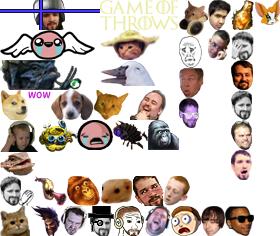
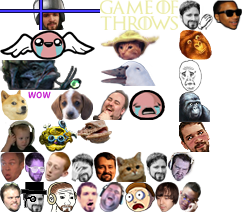
remove emotes by request and a few others by usage, LET THE RUSTLING COMMENCE

diff --git a/static/chat/css/style.min.css b/static/chat/css/style.min.css
@@ -1,1 +1,1 @@
-.nano{position:relative;width:100%;height:100%;overflow:hidden}.nano .content{position:absolute;overflow:scroll;overflow-x:hidden;top:0;right:0;bottom:0;left:0}.nano .content:focus{outline:0}.nano .content::-webkit-scrollbar{visibility:hidden}.has-scrollbar .content::-webkit-scrollbar{visibility:visible}.nano:hover>.pane,.pane.active,.pane.flashed{visibility:visible\9;opacity:.99}.nano>.pane{background:rgba(0,0,0,0.3);position:absolute;width:8px;right:5px;top:0;bottom:0;visibility:hidden\9;opacity:.01;-webkit-transition:.2s;-moz-transition:.2s;-o-transition:.2s;transition:.2s}.nano>.pane>.slider{background:#999;position:relative;margin:0 1px;-moz-border-radius:3px;-webkit-border-radius:3px;border-radius:3px}.nano>.pane>.slider:hover,.nano>.pane.active>.slider{background:#eee}.serif{font-family:"Trebuchet MS",sans-serif}.chat{position:relative;width:100%;height:100%;min-width:300px}.chat-output-frame{margin-bottom:35px;height:auto;width:100%;position:absolute;overflow:hidden;top:0;bottom:0;left:0;right:0}.chat-output{width:100%;height:100%}.chat-output .chat-lines{-webkit-backface-visibility:hidden;-webkit-perspective:1000}.chat-lines>div{clear:both;word-wrap:break-word;padding:3px 20px 3px 5px}.chat-lines>div .continue{user-select:none;color:#444}.chat-lines>div i.continue{user-select:none;color:#222}.chat-lines a.user{font-weight:bold;cursor:pointer;font-family:"Trebuchet MS",sans-serif}.chat-lines hr{margin:8px 0}.chat-lines .msg.emote{font-style:italic}.chat-input{width:100%;position:absolute;bottom:0}#chat-top-frame{position:absolute;top:0;left:0;right:0}#chat-bottom-frame{position:absolute;bottom:35px;left:0;right:0}.chat-input>div{margin:5px 0 0 0;background:#2e2e2e}.chat-tools-wrap{position:absolute;right:0;bottom:0;margin:0;user-select:none;-moz-user-select:none;-webkit-user-select:none}.chat-input-wrap{margin:0;margin-right:60px}#user-mute-form,#user-ban-form{margin-top:10px;display:none}#user-mute-form #banTimeLength{width:150px}.chat-input-control{padding:3px 0 0 5px;height:28px;margin:1px;border-radius:3px}.chat-input-control .input{background:0;resize:none;margin:0;padding:0;width:100%;border:0;border-radius:0;box-shadow:none;box-sizing:border-box}.chat-input-control .input:focus{box-shadow:none}.chat-tools-wrap>div{height:30px;overflow:hidden}.chat-tools-wrap .iconbtn{cursor:pointer;width:30px;height:28px;line-height:28px;float:left;display:block;text-align:center;color:#555}.chat-tools-wrap .iconbtn:hover{color:white}.chat-tools-wrap .iconbtn.active{color:white}.chat .chat-lines i[class^="icon-"]{width:16px;line-height:16px;height:16px;margin:0;opacity:1;display:inline-block;vertical-align:middle}.chat-input-control input,.chat-lines{font-family:Helvetica,"Trebuchet MS",Verdana,sans-serif;font-size:13px;line-height:1.5em}.chat-lines time{font-size:11px}.chat-lines a.externallink{color:#02c2ff}.chat-lines a.externallink:visited{color:#004d74}.chat-lines a.externallink:hover,.chat-lines a.externallink:focus{color:#08c}.chat-lines a.nsfw-link{border-bottom:1px dashed red}.chat .chat-lines time,.chat .user-msg i{display:none!important}.chat.chat-time .chat-lines time,.chat.chat-icons .user-msg i,.chat-lines i[class*='icon-subscriber']{display:inline-block!important}.chat-theme-dark{background:#080808;border-radius:0}.chat-theme-dark .chat-input-wrap{border:0}.chat-theme-dark .chat-lines time{color:#414141}.chat-theme-dark .chat-lines>div.highlight time,.chat-lines>div.highlight .continue{color:#838383}.chat-theme-dark .chat-lines>.command-msg,.chat-theme-dark .chat-lines>.error-msg,.chat-theme-dark .chat-lines>.status-msg,.chat-theme-dark .chat-lines>.ui-msg,.chat-theme-dark .chat-lines>.own-msg,.chat-theme-dark .chat-lines>.highlight{color:#dedede}.chat-theme-dark .chat-lines>.broadcast-msg .msg{color:#edea12}.chat-theme-dark .chat-lines>.broadcast-msg{background:linear-gradient(to right,rgba(255,255,21,0.1) 0,rgba(255,255,255,0) 90%,rgba(255,255,255,0) 100%)}.chat-theme-dark .chat-lines>.own-msg{background:linear-gradient(to right,rgba(255,255,255,0.05) 0,rgba(255,255,255,0.05) 90%,rgba(255,255,255,0) 100%)}.chat-theme-dark .chat-lines>.highlight{background:linear-gradient(to right,rgba(0,150,255,0.5) 0,rgba(0,150,255,0) 100%)}.chat-theme-dark .chat-lines>.command-msg,.chat-theme-dark .chat-lines>.own-msg,.chat-theme-dark .chat-lines>.highlight .msg,.chat-theme-dark .chat-lines>.broadcast-msg .msg{text-shadow:1px 1px 0 rgba(0,0,0,0.5)}.chat-theme-dark .chat-input-control{background:#090909;border:0}.chat-theme-dark .chat-input-control input{color:#9e9e9e;background:#090909;text-shadow:none;outline:0}.chat-theme-dark input:input-placeholder{color:#222}.chat-theme-dark input::-webkit-input-placeholder{color:#222}.chat-theme-dark input:-moz-placeholder{color:#222}.chat-theme-dark input::-moz-placeholder{color:#222}.chat-theme-dark input:-ms-input-placeholder{color:#222}.chat-theme-dark .nano>.pane{background:rgba(0,0,0,0.3);width:8px;right:5px;top:5px;bottom:0}.chat-theme-dark .nano>.pane>.slider{background:#999}.chat-theme-dark .nano>.pane>.slider:hover,.chat-theme-dark .nano>.pane.active>.slider{background:#eee}.chat.focus-user .chat-lines>.user-msg{opacity:.3}.chat.focus-user .chat-lines>.user-msg.focused,.chat.focus-user .chat-lines>.user-msg.highlight{opacity:1}.chat .alert{margin-bottom:0;padding-top:4px;padding-bottom:4px;font-size:12px}.hint-popup,.user-tools{width:100%;top:-5px;left:0}.hint-popup>div,.user-tools>div,#chat-broadcasts>div{border-radius:4px;margin:5px 20px 5px 5px}.user-tools .user-tools-user{font-family:"Trebuchet MS",sans-serif}#chat-broadcasts .chat-emote{display:none}.hint-popup>div{box-shadow:0 2px 6px rgba(0,0,0,0.9);padding:0}.hint-popup a:hover{cursor:pointer;color:#6aa7f9}.hint-popup .hidehint,.hint-popup .nexthint{top:0;position:relative;float:right;right:-23px;line-height:20px;-webkit-touch-callout:none;-webkit-user-select:none;-khtml-user-select:none;-moz-user-select:none;-ms-user-select:none;user-select:none;color:#CCC}.hint-popup .hidehint{right:-27px}.hint-popup .hidehint:hover,.hint-popup .nexthint:hover{color:#111}.hint-popup .alert{padding-right:35px}.user-tools-wrap{margin-left:-5px}.user-tools-wrap>a{margin:0 5px}.chat-menu,.user-tools,.hint-popup{display:none;opacity:0}.chat-menu.active,.user-tools.active,.hint-popup.active{display:block;opacity:1}.chat-menu,.user-tools,.hint-popup{font-size:12px}.chat-menu{position:absolute;right:20px;bottom:-5px;width:240px}.chat-menu.active{bottom:0}.chat-menu h5,.user-tools h5{text-shadow:-1px -1px 0 rgba(0,0,0,0.25);user-select:none;-moz-user-select:none;-webkit-user-select:none;background:#4f4f4f;background:linear-gradient(to bottom,#4f4f4f 0,#2e2e2e 100%);border-bottom:1px solid #121212;margin:0;line-height:20px;display:block;padding:5px 15px 5px 10px;border-radius:4px 4px 0 0}.chat-menu .toolbar{width:100%;position:absolute;top:-31px;left:0}.chat-menu li,.chat-menu label{font-size:12px}.chat-menu label{font-weight:normal;margin:0 0 5px 0}.chat-menu label:hover{color:white}.chat-menu .list-wrap,.chat-menu .list-wrap .scrollable{max-height:330px;font-size:.9em}.chat-menu .list-wrap,.user-tools>div{box-shadow:0 2px 6px rgba(0,0,0,0.9);border-radius:0 0 4px 4px;background:rgba(25,25,25,0.9);padding:0}.chat-menu .list-wrap{margin-top:auto}.chat-menu ul,.user-tools .tools{padding:0 10px;margin:10px 0}.chat-menu ul>li:first-child h5{margin-top:0}.chat-menu ul li{text-overflow:ellipsis;overflow:hidden}#chat-user-list ul li{line-height:18px}#chat-user-list h6:first-child{margin-top:10px}#chat-user-list h6{font-weight:bold;margin:0 0 5px 5px}#chat-user-list hr{margin:5px 0}#chat-user-list ul{margin:0}#chat-user-list .user{cursor:pointer;font-family:"Trebuchet MS",sans-serif}.user-tools a#unignoreuser,.user-tools.user-ignored a#ignoreuser{display:none}.user-tools.user-ignored a#unignoreuser{display:inline-block}.chat-menu .nano>.pane{width:8px;right:3px;top:3px;bottom:3px}.chat-login-msg{display:inline-block;width:100%;padding:0 0 0 5px;line-height:30px;color:rgba(255,255,255,0.5);text-shadow:-1px -1px 0 rgba(0,0,0,0.25)}.chat-lines .emotecount{color:white;text-shadow:1px 1px 0 rgba(0,0,0,0.9);font-size:10px;line-height:10px;border-radius:10px;padding:3px 6px;margin:0 0 0 5px;background:#191919}.chat-lines .emotecount{text-shadow:none;animation:emotecount 600ms 1;-webkit-animation:emotecount 600ms 1}@keyframes emotecount{from{color:black;background-color:white}to{color:white;background-color:#333}}@-webkit-keyframes emotecount{from{color:black;background-color:white}to{color:white;background-color:#333}}.chat-lines .emotecount.x5>span{font-size:10px}.chat-lines .emotecount.x10>span{font-size:16px}.chat-lines .emotecount.x20>span{font-size:25px;vertical-align:middle}.chat-lines .emotecount.x30>span{font-size:35px;vertical-align:middle}.chat-lines .emotecount.x50>span{font-size:40px;vertical-align:middle}.chat a.user{color:#cacaca}.chat a.user:hover{color:#fafafa}.chat a.subscriber{color:#488ce7}.chat a.subscriber:hover{color:#6aa7f9}.chat a.flair3{color:#0060ff;text-shadow:1px 1px 0 black}.chat a.flair3:hover{color:#6aa7f9}.chat a.flair8{color:#a427d6;text-shadow:1px 1px 0 black}.chat a.flair8:hover{color:#e564f4}.chat a.vip{color:#4db524}.chat a.vip:hover{color:#4db524}.chat a.bot{color:#e79015}.chat a.bot:hover{color:#e79015}.chat a.admin{color:#b91010}.chat a.admin:hover{color:#f00}.chat .greentext{color:#6ca528}.chat-emote{display:inline-block;position:relative;top:10px;margin:0 2px}.chat-emote.chat-emote-OverRustle{animation:rustle 100ms 7;-webkit-animation:rustle 100ms 7}.chat-emote.chat-emote-OverRustle:hover{animation:rustle1 100ms infinite;-webkit-animation:rustle1 100ms infinite}@keyframes rustle{from{left:0}to{left:2px}}@-webkit-keyframes rustle{from{left:0}to{left:2px}}@keyframes rustle1{from{left:0}to{left:2px}}@-webkit-keyframes rustle1{from{left:0}to{left:2px}}.chat-emote.chat-emote-AYYYLMAO,.chat-emote.chat-emote-AngelThump,.chat-emote.chat-emote-Abathur,.chat-emote.chat-emote-GameOfThrows,.chat-emote.chat-emote-KINGSLY,.chat-emote.chat-emote-DuckerZ,.chat-emote.chat-emote-SoDoge,.chat-emote.chat-emote-FrankerZ,.chat-emote.chat-emote-FeedNathan,.chat-emote.chat-emote-Heimerdonger,.chat-emote.chat-emote-ASLAN,.chat-emote.chat-emote-LUL,.chat-emote.chat-emote-DJAslan,.chat-emote.chat-emote-BibleThump,.chat-emote.chat-emote-INFESTINY,.chat-emote.chat-emote-Hhhehhehe,.chat-emote.chat-emote-Klappa,.chat-emote.chat-emote-SURPRISE,.chat-emote.chat-emote-OverRustle,.chat-emote.chat-emote-FerretLOL,.chat-emote.chat-emote-SoSad,.chat-emote.chat-emote-NoTears,.chat-emote.chat-emote-DestiSenpaii,.chat-emote.chat-emote-WhoahDude,.chat-emote.chat-emote-WORTH,.chat-emote.chat-emote-UWOTM8,.chat-emote.chat-emote-TooSpicy,.chat-emote.chat-emote-Sippy,.chat-emote.chat-emote-OhKrappa,.chat-emote.chat-emote-Nappa,.chat-emote.chat-emote-MotherFuckinGame,.chat-emote.chat-emote-Kappa,.chat-emote.chat-emote-Dravewin,.chat-emote.chat-emote-Disgustiny,.chat-emote.chat-emote-DatGeoff,.chat-emote.chat-emote-DappaKappa,.chat-emote.chat-emote-DaFeels,.chat-emote.chat-emote-DURRSTINY,.chat-emote.chat-emote-DESBRO,.chat-emote.chat-emote-DAFUK,.chat-emote.chat-emote-CallChad,.chat-emote.chat-emote-CallCatz,.chat-emote.chat-emote-BasedGod,.chat-emote.chat-emote-FIDGETLOL{background-image:url('../img/emoticons.png');background-repeat:no-repeat}.chat-emote.chat-emote-AYYYLMAO{background-position:0 0;width:100px;height:30px;margin-top:-30px}.chat-emote.chat-emote-AngelThump{background-position:0 -30px;width:95px;height:30px;margin-top:-30px}.chat-emote.chat-emote-Abathur{background-position:0 -60px;width:82px;height:30px;margin-top:-30px}.chat-emote.chat-emote-GameOfThrows{background-position:-100px 0;width:79px;height:30px;margin-top:-30px}.chat-emote.chat-emote-KINGSLY{background-position:-100px -30px;width:60px;height:30px;margin-top:-30px}.chat-emote.chat-emote-DuckerZ{background-position:-100px -60px;width:56px;height:26px;margin-top:-26px}.chat-emote.chat-emote-SoDoge{background-position:0 -90px;width:51px;height:30px;margin-top:-30px}.chat-emote.chat-emote-FrankerZ{background-position:-51px -90px;width:42px;height:30px;margin-top:-30px}.chat-emote.chat-emote-FeedNathan{background-position:0 -120px;width:39px;height:32px;margin-top:-32px}.chat-emote.chat-emote-Heimerdonger{background-position:-39px -120px;width:38px;height:32px;margin-top:-32px}.chat-emote.chat-emote-ASLAN{background-position:-93px -90px;width:37px;height:30px;margin-top:-30px}.chat-emote.chat-emote-LUL{background-position:-130px -90px;width:36px;height:30px;margin-top:-30px}.chat-emote.chat-emote-DJAslan{background-position:-179px 0;width:29px;height:36px;margin-top:-36px}.chat-emote.chat-emote-BibleThump{background-position:-77px -120px;width:36px;height:30px;margin-top:-30px}.chat-emote.chat-emote-INFESTINY{background-position:-113px -120px;width:35px;height:30px;margin-top:-30px}.chat-emote.chat-emote-Hhhehhehe{background-position:0 -152px;width:35px;height:24px;margin-top:-24px}.chat-emote.chat-emote-Klappa{background-position:0 -176px;width:34px;height:30px;margin-top:-30px}.chat-emote.chat-emote-SURPRISE{background-position:-34px -176px;width:33px;height:30px;margin-top:-30px}.chat-emote.chat-emote-OverRustle{background-position:-67px -176px;width:33px;height:30px;margin-top:-30px}.chat-emote.chat-emote-FerretLOL{background-position:-100px -176px;width:33px;height:30px;margin-top:-30px}.chat-emote.chat-emote-SoSad{background-position:-179px -36px;width:23px;height:32px;margin-top:-32px}.chat-emote.chat-emote-NoTears{background-position:-148px -120px;width:31px;height:30px;margin-top:-30px}.chat-emote.chat-emote-DestiSenpaii{background-position:-133px -176px;width:31px;height:30px;margin-top:-30px}.chat-emote.chat-emote-WhoahDude{background-position:-179px -68px;width:25px;height:30px;margin-top:-30px}.chat-emote.chat-emote-WORTH{background-position:-179px -98px;width:20px;height:30px;margin-top:-30px}.chat-emote.chat-emote-UWOTM8{background-position:-164px -176px;width:26px;height:30px;margin-top:-30px}.chat-emote.chat-emote-TooSpicy{background-position:-208px 0;width:23px;height:30px;margin-top:-30px}.chat-emote.chat-emote-Sippy{background-position:-231px 0;width:24px;height:30px;margin-top:-30px}.chat-emote.chat-emote-OhKrappa{background-position:-231px -30px;width:23px;height:30px;margin-top:-30px}.chat-emote.chat-emote-Nappa{background-position:-231px -60px;width:22px;height:30px;margin-top:-30px}.chat-emote.chat-emote-MotherFuckinGame{background-position:0 -206px;width:30px;height:30px;margin-top:-30px}.chat-emote.chat-emote-Kappa{background-position:-231px -90px;width:21px;height:30px;margin-top:-30px}.chat-emote.chat-emote-Dravewin{background-position:-30px -206px;width:30px;height:30px;margin-top:-30px}.chat-emote.chat-emote-Disgustiny{background-position:-60px -206px;width:28px;height:30px;margin-top:-30px}.chat-emote.chat-emote-DatGeoff{background-position:-231px -120px;width:21px;height:30px;margin-top:-30px}.chat-emote.chat-emote-DappaKappa{background-position:-88px -206px;width:26px;height:30px;margin-top:-30px}.chat-emote.chat-emote-DaFeels{background-position:-114px -206px;width:30px;height:30px;margin-top:-30px}.chat-emote.chat-emote-DURRSTINY{background-position:-231px -150px;width:21px;height:30px;margin-top:-30px}.chat-emote.chat-emote-DESBRO{background-position:-144px -206px;width:27px;height:30px;margin-top:-30px}.chat-emote.chat-emote-DAFUK{background-position:-171px -206px;width:30px;height:30px;margin-top:-30px}.chat-emote.chat-emote-CallChad{background-position:-201px -206px;width:24px;height:30px;margin-top:-30px}.chat-emote.chat-emote-CallCatz{background-position:-208px -30px;width:22px;height:30px;margin-top:-30px}.chat-emote.chat-emote-BasedGod{background-position:-225px -206px;width:29px;height:30px;margin-top:-30px}.chat-emote.chat-emote-FIDGETLOL{background-position:-255px 0;width:25px;height:25px;margin-top:-25px}.icon-subscriber,.icon-subscribert2,.icon-subscribert3,.icon-subscribert4{-webkit-transform:rotate(0deg);-webkit-transition:rotate .2s ease-in-out;-moz-transition:rotate .2s ease-in-out;-o-transition:rotate .2s ease-in-out;transition:rotate .2s ease-in-out}.icon-subscriber:hover,.icon-subscribert2:hover,.icon-subscribert3:hover,.icon-subscribert4:hover{-moz-animation:spin 3s infinite linear;-webkit-animation:spin 3s infinite linear}.icon-vip:hover,.icon-vip,.icon-trusted,.icon-subscribert4,.icon-subscribert3,.icon-subscribert2,.icon-subscriber,.icon-status,.icon-notable,.icon-moderator,.icon-info,.icon-evenotable,.icon-error,.icon-contributor,.icon-compchallenge:hover,.icon-compchallenge,.icon-command,.icon-bot:hover,.icon-bot,.icon-admin:hover,.icon-admin{background-image:url('../img/icons.png');background-repeat:no-repeat}.icon-vip:hover{background-position:0 0;width:16px;height:16px}.icon-vip{background-position:-16px 0;width:16px;height:16px}.icon-trusted{background-position:0 -16px;width:16px;height:16px}.icon-subscribert4{background-position:-16px -16px;width:16px;height:16px}.icon-subscribert3{background-position:-32px 0;width:16px;height:16px}.icon-subscribert2{background-position:-32px -16px;width:16px;height:16px}.icon-subscriber{background-position:0 -32px;width:16px;height:16px}.icon-status{background-position:-16px -32px;width:16px;height:16px}.icon-notable{background-position:-32px -32px;width:16px;height:16px}.icon-moderator{background-position:-48px 0;width:16px;height:16px}.icon-info{background-position:-48px -16px;width:16px;height:16px}.icon-evenotable{background-position:-48px -32px;width:16px;height:16px}.icon-error{background-position:0 -48px;width:16px;height:16px}.icon-contributor{background-position:-16px -48px;width:16px;height:16px}.icon-compchallenge:hover{background-position:-32px -48px;width:16px;height:16px}.icon-compchallenge{background-position:-48px -48px;width:16px;height:16px}.icon-command{background-position:-64px 0;width:16px;height:16px}.icon-bot:hover{background-position:-64px -16px;width:16px;height:16px}.icon-bot{background-position:-64px -32px;width:16px;height:16px}.icon-admin:hover{background-position:-64px -48px;width:16px;height:16px}.icon-admin{background-position:0 -64px;width:16px;height:16px}
+.nano{position:relative;width:100%;height:100%;overflow:hidden}.nano .content{position:absolute;overflow:scroll;overflow-x:hidden;top:0;right:0;bottom:0;left:0}.nano .content:focus{outline:0}.nano .content::-webkit-scrollbar{visibility:hidden}.has-scrollbar .content::-webkit-scrollbar{visibility:visible}.nano:hover>.pane,.pane.active,.pane.flashed{visibility:visible\9;opacity:.99}.nano>.pane{background:rgba(0,0,0,0.3);position:absolute;width:8px;right:5px;top:0;bottom:0;visibility:hidden\9;opacity:.01;-webkit-transition:.2s;-moz-transition:.2s;-o-transition:.2s;transition:.2s}.nano>.pane>.slider{background:#999;position:relative;margin:0 1px;-moz-border-radius:3px;-webkit-border-radius:3px;border-radius:3px}.nano>.pane>.slider:hover,.nano>.pane.active>.slider{background:#eee}.serif{font-family:"Trebuchet MS",sans-serif}.chat{position:relative;width:100%;height:100%;min-width:300px}.chat-output-frame{margin-bottom:35px;height:auto;width:100%;position:absolute;overflow:hidden;top:0;bottom:0;left:0;right:0}.chat-output{width:100%;height:100%}.chat-output .chat-lines{-webkit-backface-visibility:hidden;-webkit-perspective:1000}.chat-lines>div{clear:both;word-wrap:break-word;padding:3px 20px 3px 5px}.chat-lines>div .continue{user-select:none;color:#444}.chat-lines>div i.continue{user-select:none;color:#222}.chat-lines a.user{font-weight:bold;cursor:pointer;font-family:"Trebuchet MS",sans-serif}.chat-lines hr{margin:8px 0}.chat-lines .msg.emote{font-style:italic}.chat-input{width:100%;position:absolute;bottom:0}#chat-top-frame{position:absolute;top:0;left:0;right:0}#chat-bottom-frame{position:absolute;bottom:35px;left:0;right:0}.chat-input>div{margin:5px 0 0 0;background:#2e2e2e}.chat-tools-wrap{position:absolute;right:0;bottom:0;margin:0;user-select:none;-moz-user-select:none;-webkit-user-select:none}.chat-input-wrap{margin:0;margin-right:60px}#user-mute-form,#user-ban-form{margin-top:10px;display:none}#user-mute-form #banTimeLength{width:150px}.chat-input-control{padding:3px 0 0 5px;height:28px;margin:1px;border-radius:3px}.chat-input-control .input{background:0;resize:none;margin:0;padding:0;width:100%;border:0;border-radius:0;box-shadow:none;box-sizing:border-box}.chat-input-control .input:focus{box-shadow:none}.chat-tools-wrap>div{height:30px;overflow:hidden}.chat-tools-wrap .iconbtn{cursor:pointer;width:30px;height:28px;line-height:28px;float:left;display:block;text-align:center;color:#555}.chat-tools-wrap .iconbtn:hover{color:white}.chat-tools-wrap .iconbtn.active{color:white}.chat .chat-lines i[class^="icon-"]{width:16px;line-height:16px;height:16px;margin:0;opacity:1;display:inline-block;vertical-align:middle}.chat-input-control input,.chat-lines{font-family:Helvetica,"Trebuchet MS",Verdana,sans-serif;font-size:13px;line-height:1.5em}.chat-lines time{font-size:11px}.chat-lines a.externallink{color:#02c2ff}.chat-lines a.externallink:visited{color:#004d74}.chat-lines a.externallink:hover,.chat-lines a.externallink:focus{color:#08c}.chat-lines a.nsfw-link{border-bottom:1px dashed red}.chat .chat-lines time,.chat .user-msg i{display:none!important}.chat.chat-time .chat-lines time,.chat.chat-icons .user-msg i,.chat-lines i[class*='icon-subscriber']{display:inline-block!important}.chat-theme-dark{background:#080808;border-radius:0}.chat-theme-dark .chat-input-wrap{border:0}.chat-theme-dark .chat-lines time{color:#414141}.chat-theme-dark .chat-lines>div.highlight time,.chat-lines>div.highlight .continue{color:#838383}.chat-theme-dark .chat-lines>.command-msg,.chat-theme-dark .chat-lines>.error-msg,.chat-theme-dark .chat-lines>.status-msg,.chat-theme-dark .chat-lines>.ui-msg,.chat-theme-dark .chat-lines>.own-msg,.chat-theme-dark .chat-lines>.highlight{color:#dedede}.chat-theme-dark .chat-lines>.broadcast-msg .msg{color:#edea12}.chat-theme-dark .chat-lines>.broadcast-msg{background:linear-gradient(to right,rgba(255,255,21,0.1) 0,rgba(255,255,255,0) 90%,rgba(255,255,255,0) 100%)}.chat-theme-dark .chat-lines>.own-msg{background:linear-gradient(to right,rgba(255,255,255,0.05) 0,rgba(255,255,255,0.05) 90%,rgba(255,255,255,0) 100%)}.chat-theme-dark .chat-lines>.highlight{background:linear-gradient(to right,rgba(0,150,255,0.5) 0,rgba(0,150,255,0) 100%)}.chat-theme-dark .chat-lines>.command-msg,.chat-theme-dark .chat-lines>.own-msg,.chat-theme-dark .chat-lines>.highlight .msg,.chat-theme-dark .chat-lines>.broadcast-msg .msg{text-shadow:1px 1px 0 rgba(0,0,0,0.5)}.chat-theme-dark .chat-input-control{background:#090909;border:0}.chat-theme-dark .chat-input-control input{color:#9e9e9e;background:#090909;text-shadow:none;outline:0}.chat-theme-dark input:input-placeholder{color:#222}.chat-theme-dark input::-webkit-input-placeholder{color:#222}.chat-theme-dark input:-moz-placeholder{color:#222}.chat-theme-dark input::-moz-placeholder{color:#222}.chat-theme-dark input:-ms-input-placeholder{color:#222}.chat-theme-dark .nano>.pane{background:rgba(0,0,0,0.3);width:8px;right:5px;top:5px;bottom:0}.chat-theme-dark .nano>.pane>.slider{background:#999}.chat-theme-dark .nano>.pane>.slider:hover,.chat-theme-dark .nano>.pane.active>.slider{background:#eee}.chat.focus-user .chat-lines>.user-msg{opacity:.3}.chat.focus-user .chat-lines>.user-msg.focused,.chat.focus-user .chat-lines>.user-msg.highlight{opacity:1}.chat .alert{margin-bottom:0;padding-top:4px;padding-bottom:4px;font-size:12px}.hint-popup,.user-tools{width:100%;top:-5px;left:0}.hint-popup>div,.user-tools>div,#chat-broadcasts>div{border-radius:4px;margin:5px 20px 5px 5px}.user-tools .user-tools-user{font-family:"Trebuchet MS",sans-serif}#chat-broadcasts .chat-emote{display:none}.hint-popup>div{box-shadow:0 2px 6px rgba(0,0,0,0.9);padding:0}.hint-popup a:hover{cursor:pointer;color:#6aa7f9}.hint-popup .hidehint,.hint-popup .nexthint{top:0;position:relative;float:right;right:-23px;line-height:20px;-webkit-touch-callout:none;-webkit-user-select:none;-khtml-user-select:none;-moz-user-select:none;-ms-user-select:none;user-select:none;color:#CCC}.hint-popup .hidehint{right:-27px}.hint-popup .hidehint:hover,.hint-popup .nexthint:hover{color:#111}.hint-popup .alert{padding-right:35px}.user-tools-wrap{margin-left:-5px}.user-tools-wrap>a{margin:0 5px}.chat-menu,.user-tools,.hint-popup{display:none;opacity:0}.chat-menu.active,.user-tools.active,.hint-popup.active{display:block;opacity:1}.chat-menu,.user-tools,.hint-popup{font-size:12px}.chat-menu{position:absolute;right:20px;bottom:-5px;width:240px}.chat-menu.active{bottom:0}.chat-menu h5,.user-tools h5{text-shadow:-1px -1px 0 rgba(0,0,0,0.25);user-select:none;-moz-user-select:none;-webkit-user-select:none;background:#4f4f4f;background:linear-gradient(to bottom,#4f4f4f 0,#2e2e2e 100%);border-bottom:1px solid #121212;margin:0;line-height:20px;display:block;padding:5px 15px 5px 10px;border-radius:4px 4px 0 0}.chat-menu .toolbar{width:100%;position:absolute;top:-31px;left:0}.chat-menu li,.chat-menu label{font-size:12px}.chat-menu label{font-weight:normal;margin:0 0 5px 0}.chat-menu label:hover{color:white}.chat-menu .list-wrap,.chat-menu .list-wrap .scrollable{max-height:330px;font-size:.9em}.chat-menu .list-wrap,.user-tools>div{box-shadow:0 2px 6px rgba(0,0,0,0.9);border-radius:0 0 4px 4px;background:rgba(25,25,25,0.9);padding:0}.chat-menu .list-wrap{margin-top:auto}.chat-menu ul,.user-tools .tools{padding:0 10px;margin:10px 0}.chat-menu ul>li:first-child h5{margin-top:0}.chat-menu ul li{text-overflow:ellipsis;overflow:hidden}#chat-user-list ul li{line-height:18px}#chat-user-list h6:first-child{margin-top:10px}#chat-user-list h6{font-weight:bold;margin:0 0 5px 5px}#chat-user-list hr{margin:5px 0}#chat-user-list ul{margin:0}#chat-user-list .user{cursor:pointer;font-family:"Trebuchet MS",sans-serif}.user-tools a#unignoreuser,.user-tools.user-ignored a#ignoreuser{display:none}.user-tools.user-ignored a#unignoreuser{display:inline-block}.chat-menu .nano>.pane{width:8px;right:3px;top:3px;bottom:3px}.chat-login-msg{display:inline-block;width:100%;padding:0 0 0 5px;line-height:30px;color:rgba(255,255,255,0.5);text-shadow:-1px -1px 0 rgba(0,0,0,0.25)}.chat-lines .emotecount{color:white;text-shadow:1px 1px 0 rgba(0,0,0,0.9);font-size:10px;line-height:10px;border-radius:10px;padding:3px 6px;margin:0 0 0 5px;background:#191919}.chat-lines .emotecount{text-shadow:none;animation:emotecount 600ms 1;-webkit-animation:emotecount 600ms 1}@keyframes emotecount{from{color:black;background-color:white}to{color:white;background-color:#333}}@-webkit-keyframes emotecount{from{color:black;background-color:white}to{color:white;background-color:#333}}.chat-lines .emotecount.x5>span{font-size:10px}.chat-lines .emotecount.x10>span{font-size:16px}.chat-lines .emotecount.x20>span{font-size:25px;vertical-align:middle}.chat-lines .emotecount.x30>span{font-size:35px;vertical-align:middle}.chat-lines .emotecount.x50>span{font-size:40px;vertical-align:middle}.chat a.user{color:#cacaca}.chat a.user:hover{color:#fafafa}.chat a.subscriber{color:#488ce7}.chat a.subscriber:hover{color:#6aa7f9}.chat a.flair3{color:#0060ff;text-shadow:1px 1px 0 black}.chat a.flair3:hover{color:#6aa7f9}.chat a.flair8{color:#a427d6;text-shadow:1px 1px 0 black}.chat a.flair8:hover{color:#e564f4}.chat a.vip{color:#4db524}.chat a.vip:hover{color:#4db524}.chat a.bot{color:#e79015}.chat a.bot:hover{color:#e79015}.chat a.admin{color:#b91010}.chat a.admin:hover{color:#f00}.chat .greentext{color:#6ca528}.chat-emote{display:inline-block;position:relative;top:10px;margin:0 2px}.chat-emote.chat-emote-OverRustle{animation:rustle 100ms 7;-webkit-animation:rustle 100ms 7}.chat-emote.chat-emote-OverRustle:hover{animation:rustle1 100ms infinite;-webkit-animation:rustle1 100ms infinite}@keyframes rustle{from{left:0}to{left:2px}}@-webkit-keyframes rustle{from{left:0}to{left:2px}}@keyframes rustle1{from{left:0}to{left:2px}}@-webkit-keyframes rustle1{from{left:0}to{left:2px}}.chat-emote.chat-emote-AYYYLMAO,.chat-emote.chat-emote-AngelThump,.chat-emote.chat-emote-Abathur,.chat-emote.chat-emote-GameOfThrows,.chat-emote.chat-emote-KINGSLY,.chat-emote.chat-emote-DuckerZ,.chat-emote.chat-emote-SoDoge,.chat-emote.chat-emote-FrankerZ,.chat-emote.chat-emote-FeedNathan,.chat-emote.chat-emote-Heimerdonger,.chat-emote.chat-emote-LUL,.chat-emote.chat-emote-BibleThump,.chat-emote.chat-emote-Hhhehhehe,.chat-emote.chat-emote-Klappa,.chat-emote.chat-emote-OverRustle,.chat-emote.chat-emote-SoSad,.chat-emote.chat-emote-NoTears,.chat-emote.chat-emote-DestiSenpaii,.chat-emote.chat-emote-WhoahDude,.chat-emote.chat-emote-WORTH,.chat-emote.chat-emote-UWOTM8,.chat-emote.chat-emote-OhKrappa,.chat-emote.chat-emote-Nappa,.chat-emote.chat-emote-MotherFuckinGame,.chat-emote.chat-emote-Kappa,.chat-emote.chat-emote-Disgustiny,.chat-emote.chat-emote-DatGeoff,.chat-emote.chat-emote-DappaKappa,.chat-emote.chat-emote-DaFeels,.chat-emote.chat-emote-DURRSTINY,.chat-emote.chat-emote-DESBRO,.chat-emote.chat-emote-DAFUK,.chat-emote.chat-emote-CallChad,.chat-emote.chat-emote-CallCatz,.chat-emote.chat-emote-BasedGod{background-image:url('../img/emoticons.png');background-repeat:no-repeat}.chat-emote.chat-emote-AYYYLMAO{background-position:0 0;width:100px;height:30px;margin-top:-30px}.chat-emote.chat-emote-AngelThump{background-position:0 -30px;width:95px;height:30px;margin-top:-30px}.chat-emote.chat-emote-Abathur{background-position:0 -60px;width:82px;height:30px;margin-top:-30px}.chat-emote.chat-emote-GameOfThrows{background-position:-100px 0;width:79px;height:30px;margin-top:-30px}.chat-emote.chat-emote-KINGSLY{background-position:-100px -30px;width:60px;height:30px;margin-top:-30px}.chat-emote.chat-emote-DuckerZ{background-position:-100px -60px;width:56px;height:26px;margin-top:-26px}.chat-emote.chat-emote-SoDoge{background-position:0 -90px;width:51px;height:30px;margin-top:-30px}.chat-emote.chat-emote-FrankerZ{background-position:-51px -90px;width:42px;height:30px;margin-top:-30px}.chat-emote.chat-emote-FeedNathan{background-position:0 -120px;width:39px;height:32px;margin-top:-32px}.chat-emote.chat-emote-Heimerdonger{background-position:-39px -120px;width:38px;height:32px;margin-top:-32px}.chat-emote.chat-emote-LUL{background-position:-93px -90px;width:36px;height:30px;margin-top:-30px}.chat-emote.chat-emote-BibleThump{background-position:-129px -90px;width:36px;height:30px;margin-top:-30px}.chat-emote.chat-emote-Hhhehhehe{background-position:-77px -120px;width:35px;height:24px;margin-top:-24px}.chat-emote.chat-emote-Klappa{background-position:-179px 0;width:34px;height:30px;margin-top:-30px}.chat-emote.chat-emote-OverRustle{background-position:-179px -30px;width:33px;height:30px;margin-top:-30px}.chat-emote.chat-emote-SoSad{background-position:-179px -60px;width:23px;height:32px;margin-top:-32px}.chat-emote.chat-emote-NoTears{background-position:-179px -92px;width:31px;height:30px;margin-top:-30px}.chat-emote.chat-emote-DestiSenpaii{background-position:-179px -122px;width:31px;height:30px;margin-top:-30px}.chat-emote.chat-emote-WhoahDude{background-position:0 -152px;width:25px;height:30px;margin-top:-30px}.chat-emote.chat-emote-WORTH{background-position:-25px -152px;width:20px;height:30px;margin-top:-30px}.chat-emote.chat-emote-UWOTM8{background-position:-45px -152px;width:26px;height:30px;margin-top:-30px}.chat-emote.chat-emote-OhKrappa{background-position:-71px -152px;width:23px;height:30px;margin-top:-30px}.chat-emote.chat-emote-Nappa{background-position:-94px -152px;width:22px;height:30px;margin-top:-30px}.chat-emote.chat-emote-MotherFuckinGame{background-position:-116px -152px;width:30px;height:30px;margin-top:-30px}.chat-emote.chat-emote-Kappa{background-position:-146px -152px;width:21px;height:30px;margin-top:-30px}.chat-emote.chat-emote-Disgustiny{background-position:-167px -152px;width:28px;height:30px;margin-top:-30px}.chat-emote.chat-emote-DatGeoff{background-position:0 -182px;width:21px;height:30px;margin-top:-30px}.chat-emote.chat-emote-DappaKappa{background-position:-21px -182px;width:26px;height:30px;margin-top:-30px}.chat-emote.chat-emote-DaFeels{background-position:-47px -182px;width:30px;height:30px;margin-top:-30px}.chat-emote.chat-emote-DURRSTINY{background-position:-77px -182px;width:21px;height:30px;margin-top:-30px}.chat-emote.chat-emote-DESBRO{background-position:-98px -182px;width:27px;height:30px;margin-top:-30px}.chat-emote.chat-emote-DAFUK{background-position:-125px -182px;width:30px;height:30px;margin-top:-30px}.chat-emote.chat-emote-CallChad{background-position:-155px -182px;width:24px;height:30px;margin-top:-30px}.chat-emote.chat-emote-CallCatz{background-position:-179px -182px;width:22px;height:30px;margin-top:-30px}.chat-emote.chat-emote-BasedGod{background-position:-213px 0;width:29px;height:30px;margin-top:-30px}.icon-subscriber,.icon-subscribert2,.icon-subscribert3,.icon-subscribert4{-webkit-transform:rotate(0deg);-webkit-transition:rotate .2s ease-in-out;-moz-transition:rotate .2s ease-in-out;-o-transition:rotate .2s ease-in-out;transition:rotate .2s ease-in-out}.icon-subscriber:hover,.icon-subscribert2:hover,.icon-subscribert3:hover,.icon-subscribert4:hover{-moz-animation:spin 3s infinite linear;-webkit-animation:spin 3s infinite linear}.icon-vip:hover,.icon-vip,.icon-trusted,.icon-subscribert4,.icon-subscribert3,.icon-subscribert2,.icon-subscriber,.icon-status,.icon-notable,.icon-moderator,.icon-info,.icon-evenotable,.icon-error,.icon-contributor,.icon-compchallenge:hover,.icon-compchallenge,.icon-command,.icon-bot:hover,.icon-bot,.icon-admin:hover,.icon-admin{background-image:url('../img/icons.png');background-repeat:no-repeat}.icon-vip:hover{background-position:0 0;width:16px;height:16px}.icon-vip{background-position:-16px 0;width:16px;height:16px}.icon-trusted{background-position:0 -16px;width:16px;height:16px}.icon-subscribert4{background-position:-16px -16px;width:16px;height:16px}.icon-subscribert3{background-position:-32px 0;width:16px;height:16px}.icon-subscribert2{background-position:-32px -16px;width:16px;height:16px}.icon-subscriber{background-position:0 -32px;width:16px;height:16px}.icon-status{background-position:-16px -32px;width:16px;height:16px}.icon-notable{background-position:-32px -32px;width:16px;height:16px}.icon-moderator{background-position:-48px 0;width:16px;height:16px}.icon-info{background-position:-48px -16px;width:16px;height:16px}.icon-evenotable{background-position:-48px -32px;width:16px;height:16px}.icon-error{background-position:0 -48px;width:16px;height:16px}.icon-contributor{background-position:-16px -48px;width:16px;height:16px}.icon-compchallenge:hover{background-position:-32px -48px;width:16px;height:16px}.icon-compchallenge{background-position:-48px -48px;width:16px;height:16px}.icon-command{background-position:-64px 0;width:16px;height:16px}.icon-bot:hover{background-position:-64px -16px;width:16px;height:16px}.icon-bot{background-position:-64px -32px;width:16px;height:16px}.icon-admin:hover{background-position:-64px -48px;width:16px;height:16px}.icon-admin{background-position:0 -64px;width:16px;height:16px}

diff --git a/config/config.php b/config/config.php
@@ -12,9 +12,6 @@ return array (
 		'backlog' 			=> 150,
 		'maxlines' 			=> 150,
 		'customemotes' => array(
-			'Dravewin',
-			'INFESTINY',
-			'FIDGETLOL',
 			'Hhhehhehe',
 			'GameOfThrows',
 			'WORTH',
@@ -22,11 +19,8 @@ return array (
 			'Abathur',
 			'LUL',
 			'Heimerdonger',
-			'ASLAN',
-			'DJAslan',
 			'SoSad',
 			'DURRSTINY',
-			'SURPRISE',
 			'NoTears',
 			'OverRustle',
 			'DuckerZ',
@@ -37,7 +31,6 @@ return array (
 			'AngelThump',
 			'FrankerZ',
 			'BasedGod',
-			'TooSpicy',
 			'OhKrappa',
 			'SoDoge',
 			'WhoahDude',
@@ -49,8 +42,6 @@ return array (
 			'CallChad',
 			'DatGeoff',
 			'Disgustiny',
-			'FerretLOL',
-			'Sippy',
 			'DestiSenpaii',
 			'KINGSLY',
 			'Nappa',
